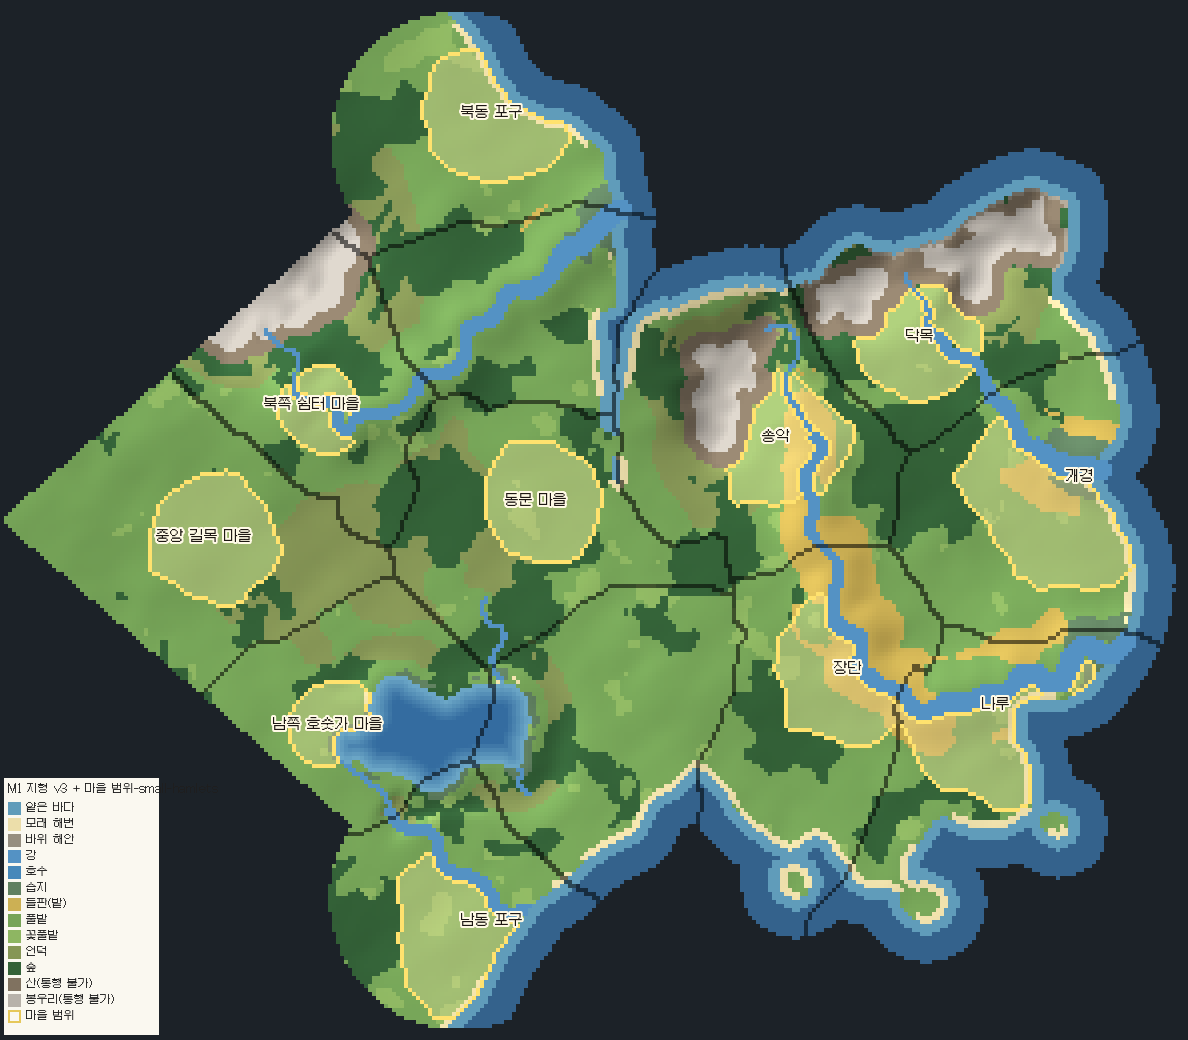
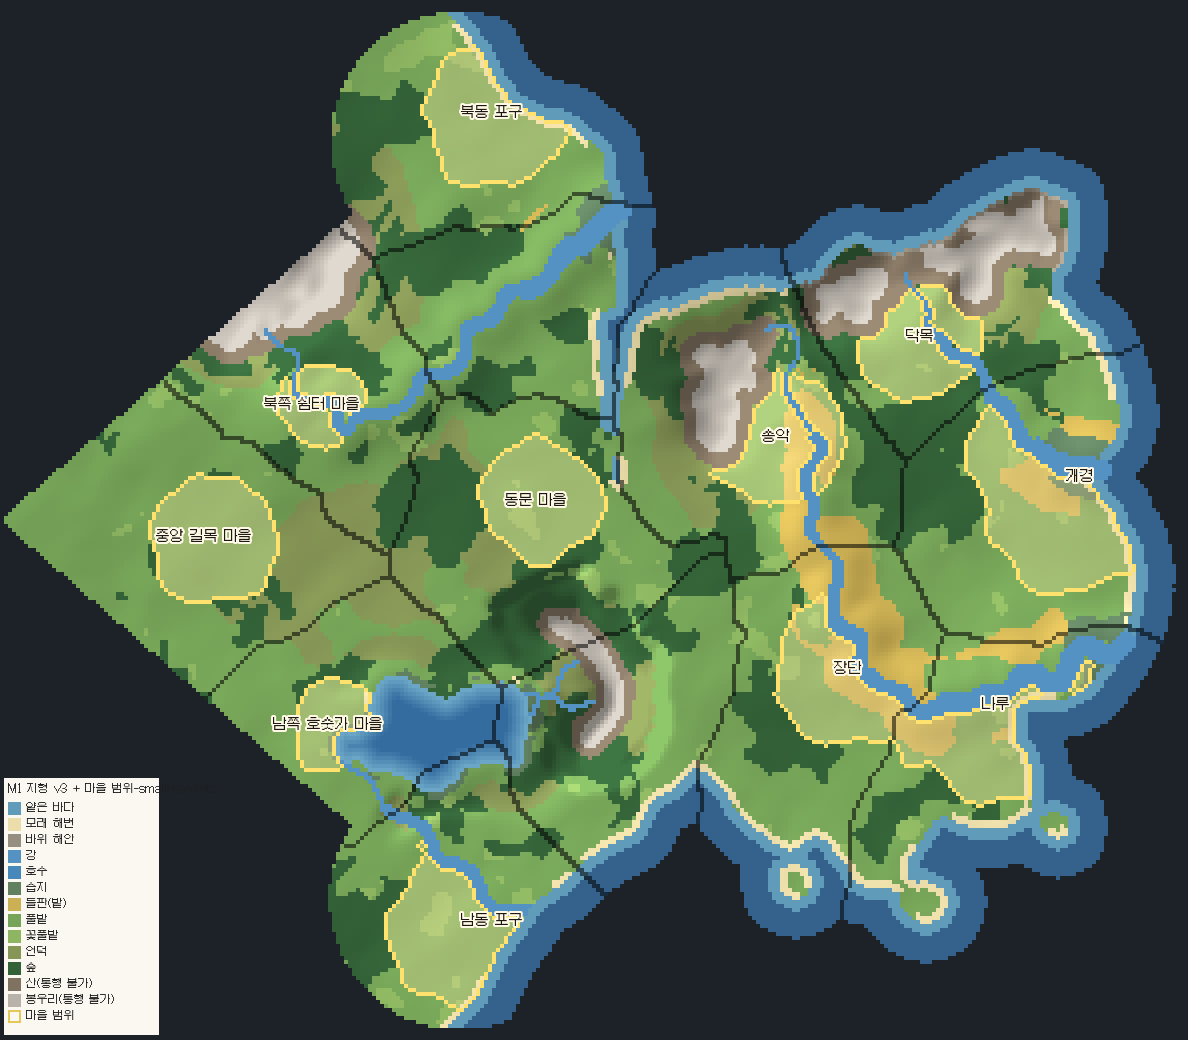
M1: 호수 동쪽에 수원 산줄기 추가, 유입 하천을 산비탈에서 시작
Claude-Session: https://claude.ai/code/session_01LeGdCGGAkPbpRa1d2kF6Yd

diff --git a/Tools/WorldLayout/terrain_v3.py b/Tools/WorldLayout/terrain_v3.py
@@ -279,19 +279,45 @@ def build(layout):
         t[hillring&(forest_n>.42)]=FOREST;t[hillring&(forest_n<=.42)]=HILL
         elev=np.where(ringz,np.maximum(elev,np.quantile(elev[land],.82)*bump+elev*(1-bump)),elev)
         lk['hillCells']=int(hillring.sum())
-        # 들어오는 개울 2개: 출구 반대편 ±55° 방향의 언덕 → 호수
+        # 수원지: 출구 반대편에 작은 산줄기(능선 + 봉우리 + 산자락 숲)를 세우고,
+        # 그 산 높은 곳에서 시작한 개울 2줄기가 골짜기를 따라 내려와 호수로 든다.
+        R_l=math.sqrt(m.sum()/math.pi);back=ang_out+math.pi
+        rng_=None
+        for dist_ in (R_l+26,R_l+22,R_l+18):
+            mcx,mcy=cx+math.cos(back)*dist_,cy+math.sin(back)*dist_
+            px_,py_=-math.sin(back),math.cos(back)      # 능선 방향: 호수 쪽과 수직
+            # 활처럼 휜 능선(호수를 감싸는 쪽으로 휨) + 불규칙한 흔들림
+            pts_=[(mcy+py_*s_*15-math.sin(back)*(s_*s_)*6+math.sin(s_*3.3+1)*2.2,
+                   mcx+px_*s_*15-math.cos(back)*(s_*s_)*6+math.cos(s_*2.7)*2.2) for s_ in np.linspace(-1,1,11)]
+            if all(0<=int(y)<H and 0<=int(x)<W and east[int(y),int(x)] and land[int(y),int(x)] and far[int(y),int(x)] for y,x in pts_):
+                rng_=pts_;break
         inflow=[]
-        for side in (-1,1):
-            a_=ang_out+math.pi+side*math.radians(55)
-            hy,hx=int(cy+math.sin(a_)*(math.sqrt(m.sum()/math.pi)+12)),int(cx+math.cos(a_)*(math.sqrt(m.sum()/math.pi)+12))
-            hill=np.argwhere(east&land&~m&~river&~np.isin(t,[MOUNTAIN,PEAK])&(((yy_-hy)**2+(xx_-hx)**2)<6**2))
-            if not len(hill):continue
-            h0=tuple(hill[np.argmax(elev[tuple(hill.T)])])
-            mc=np.argwhere(m);m0=tuple(mc[np.argmin(((mc-np.array(h0))**2).sum(1))])
-            seg=astar(h0,m0,1+10*elev,blocked=np.isin(t,[MOUNTAIN,PEAK]),eight=True)
-            inflow.append(seg)
-            # 개울이 들어오는 곳에 작은 습지(삼각주)
-            yy3,xx3=m0;t[(((yy_-yy3)**2+(xx_-xx3)**2)<3.5**2)&land&~m&(marsh_n>.35)]=MARSH
+        if rng_:
+            ridge2=np.zeros((H,W),bool)
+            for (y0_,x0_),(y1_,x1_) in zip(rng_,rng_[1:]):
+                n_=int(max(abs(y1_-y0_),abs(x1_-x0_))*2)+1
+                for i_ in range(n_+1):
+                    ridge2[int(round(y0_+(y1_-y0_)*i_/n_)),int(round(x0_+(x1_-x0_)*i_/n_))]=True
+            dr=ndimage.distance_transform_edt(~ridge2)
+            wob_=noise((H,W),5,rng,3)                          # 산 가장자리를 들쭉날쭉하게
+            dr_=dr*(1+.55*(wob_-.5))
+            prof=np.exp(-(dr_/4.5)**2)+.45*np.exp(-(dr_/10)**2)     # 높은 산 덩어리 + 넓은 산자락
+            zone=(dr_<13)&east&land&~m&~river
+            elev=np.where(zone,np.maximum(elev,.55+.45*prof),elev)
+            t[zone&(dr_<11)&(forest_n>.33)]=FOREST;t[zone&(dr_<11)&(forest_n<=.33)]=HILL
+            t[zone&(dr_<4.6)]=MOUNTAIN;t[zone&(dr_<2.2)]=PEAK
+            lk['sourceRange']=[[round(x+X0,1),round(y+Y0,1)] for y,x in (rng_[0],rng_[-1])]
+            # 개울: 능선 양쪽 끝 가까운 산자락(산 바로 바깥, 가장 높은 곳)에서 호수로
+            lakeward=((yy_-mcy)*(cy-mcy)+(xx_-mcx)*(cx-mcx))>0       # 산의 호수 쪽 비탈
+            for end_ in (rng_[2],rng_[-3]):
+                ey,ex=int(end_[0]),int(end_[1])
+                cand_=np.argwhere(zone&lakeward&~np.isin(t,[MOUNTAIN,PEAK])&(dr_<7)&(((yy_-ey)**2+(xx_-ex)**2)<8**2))
+                if not len(cand_):continue
+                h0=tuple(cand_[np.argmax(elev[tuple(cand_.T)])])
+                mc=np.argwhere(m);m0=tuple(mc[np.argmin(((mc-np.array(h0))**2).sum(1))])
+                seg=astar(h0,m0,1+12*elev,blocked=np.isin(t,[MOUNTAIN,PEAK]),eight=True)
+                inflow.append(seg)
+                yy3,xx3=m0;t[(((yy_-yy3)**2+(xx_-xx3)**2)<3.5**2)&land&~m&(marsh_n>.35)]=MARSH
         def meander(path,amp_=2.6,lam_=13):
             # A* 길을 따라가며 옆으로 흔들어 굽이치게(땅 위에서만)
             if len(path)<8:return path
